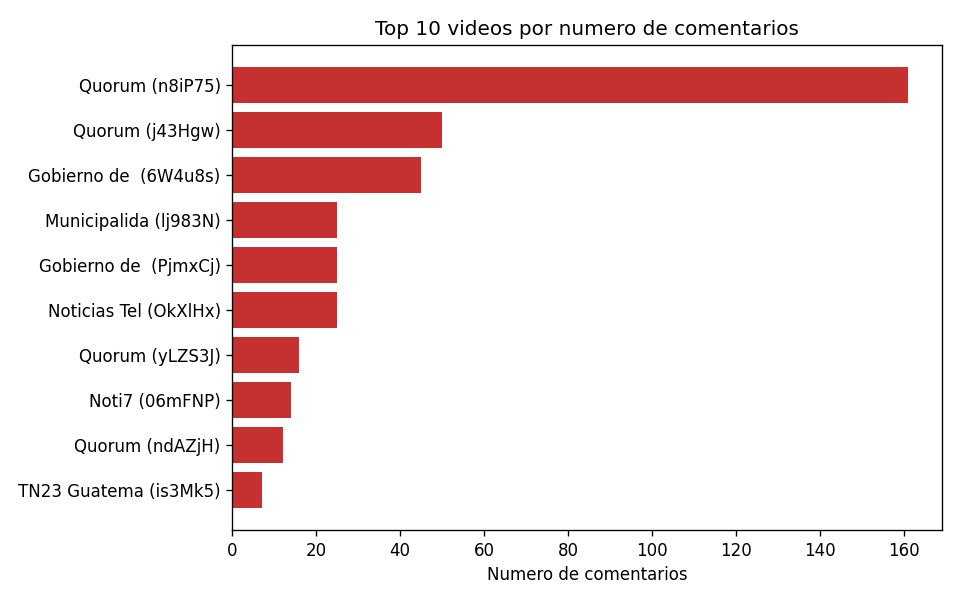
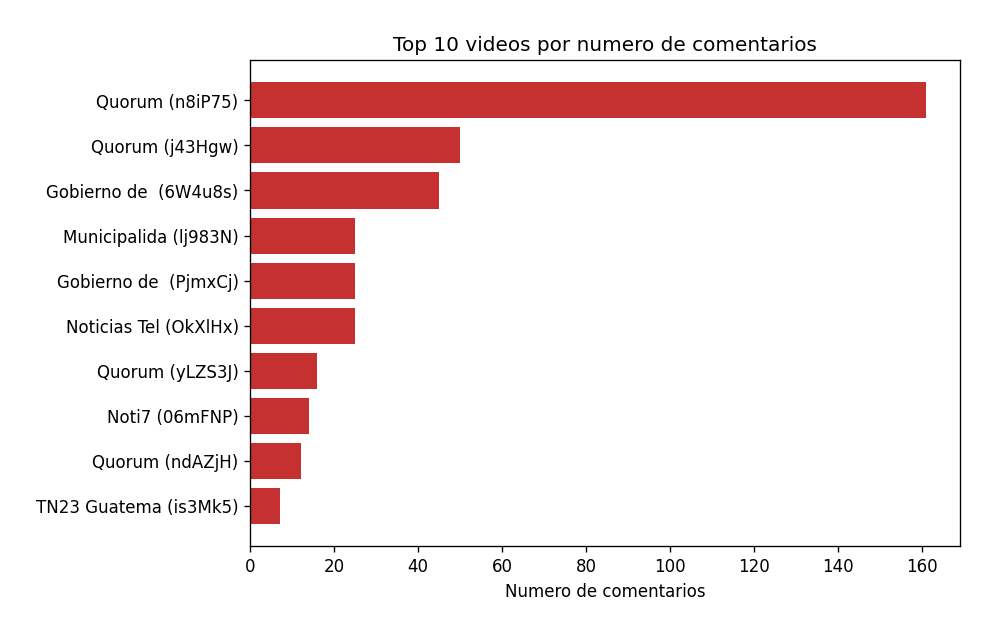
Recorta las figuras del Ejercicio 3 sin margenes en blanco
Agrega bbox_inches=tight a los savefig() del notebook 02 para que las 8 figuras (top canales, top videos, histograma, categorias, dispersion, palabras, bigramas, wordcloud) queden bien recortadas al usarse en el informe final con leyenda.

Changed region(s): [[0.0312, 0.03, 1.0, 0.99]]

diff --git a/notebooks/02_analisis_exploratorio_mariajose.py b/notebooks/02_analisis_exploratorio_mariajose.py
@@ -174,7 +174,7 @@ por_canal.head(10).sort_values().plot(kind="barh", color="#2b6cb0")
 plt.title("Top 10 canales por numero de comentarios recibidos")
 plt.xlabel("Numero de comentarios")
 plt.tight_layout()
-plt.savefig(FIGS / "01_top_canales_comentarios.png", dpi=120)
+plt.savefig(FIGS / "01_top_canales_comentarios.png", dpi=120, bbox_inches="tight", pad_inches=0.3)
 plt.close()
 
 plt.figure(figsize=(8, 5))
@@ -185,7 +185,7 @@ plt.barh(labels["label"][::-1], labels["n_comentarios"][::-1], color="#c53030")
 plt.title("Top 10 videos por numero de comentarios")
 plt.xlabel("Numero de comentarios")
 plt.tight_layout()
-plt.savefig(FIGS / "02_top_videos_comentarios.png", dpi=120)
+plt.savefig(FIGS / "02_top_videos_comentarios.png", dpi=120, bbox_inches="tight", pad_inches=0.3)
 plt.close()
 
 plt.figure(figsize=(7, 5))
@@ -195,7 +195,7 @@ plt.xlabel("view_count")
 plt.ylabel("numero de videos (escala log)")
 plt.title("Distribucion de visualizaciones por video (293 videos)")
 plt.tight_layout()
-plt.savefig(FIGS / "03_histograma_views.png", dpi=120)
+plt.savefig(FIGS / "03_histograma_views.png", dpi=120, bbox_inches="tight", pad_inches=0.3)
 plt.close()
 
 plt.figure(figsize=(8, 5))
@@ -208,7 +208,7 @@ plt.ylabel("%")
 plt.title("Categoria: participacion en videos vs. en comentarios")
 plt.legend()
 plt.tight_layout()
-plt.savefig(FIGS / "04_categorias_video_vs_comentario.png", dpi=120)
+plt.savefig(FIGS / "04_categorias_video_vs_comentario.png", dpi=120, bbox_inches="tight", pad_inches=0.3)
 plt.close()
 
 plt.figure(figsize=(7, 5))
@@ -218,7 +218,7 @@ plt.xlabel("view_count (escala log)")
 plt.ylabel("numero de comentarios")
 plt.title("Popularidad vs. participacion por video")
 plt.tight_layout()
-plt.savefig(FIGS / "05_scatter_views_vs_comentarios.png", dpi=120)
+plt.savefig(FIGS / "05_scatter_views_vs_comentarios.png", dpi=120, bbox_inches="tight", pad_inches=0.3)
 plt.close()
 
 top_words = pd.Series(dict(word_freq.most_common(15)))
@@ -227,7 +227,7 @@ top_words.sort_values().plot(kind="barh", color="#2c7a7b")
 plt.title("15 palabras mas frecuentes (texto_limpio)")
 plt.xlabel("frecuencia")
 plt.tight_layout()
-plt.savefig(FIGS / "06_top_palabras.png", dpi=120)
+plt.savefig(FIGS / "06_top_palabras.png", dpi=120, bbox_inches="tight", pad_inches=0.3)
 plt.close()
 
 top_bigrams = pd.Series(dict(bigram_freq.most_common(15)))
@@ -236,7 +236,7 @@ top_bigrams.sort_values().plot(kind="barh", color="#975a16")
 plt.title("15 bigramas mas frecuentes (texto_limpio)")
 plt.xlabel("frecuencia")
 plt.tight_layout()
-plt.savefig(FIGS / "07_top_bigramas.png", dpi=120)
+plt.savefig(FIGS / "07_top_bigramas.png", dpi=120, bbox_inches="tight", pad_inches=0.3)
 plt.close()
 
 wc_text = " ".join(all_tokens)
@@ -246,7 +246,7 @@ plt.imshow(wc, interpolation="bilinear")
 plt.axis("off")
 plt.title("Nube de palabras - comentarios (texto_limpio)")
 plt.tight_layout()
-plt.savefig(FIGS / "08_wordcloud.png", dpi=120)
+plt.savefig(FIGS / "08_wordcloud.png", dpi=120, bbox_inches="tight", pad_inches=0.3)
 plt.close()
 
 log("\n## 3.4 Visualizaciones\n")
